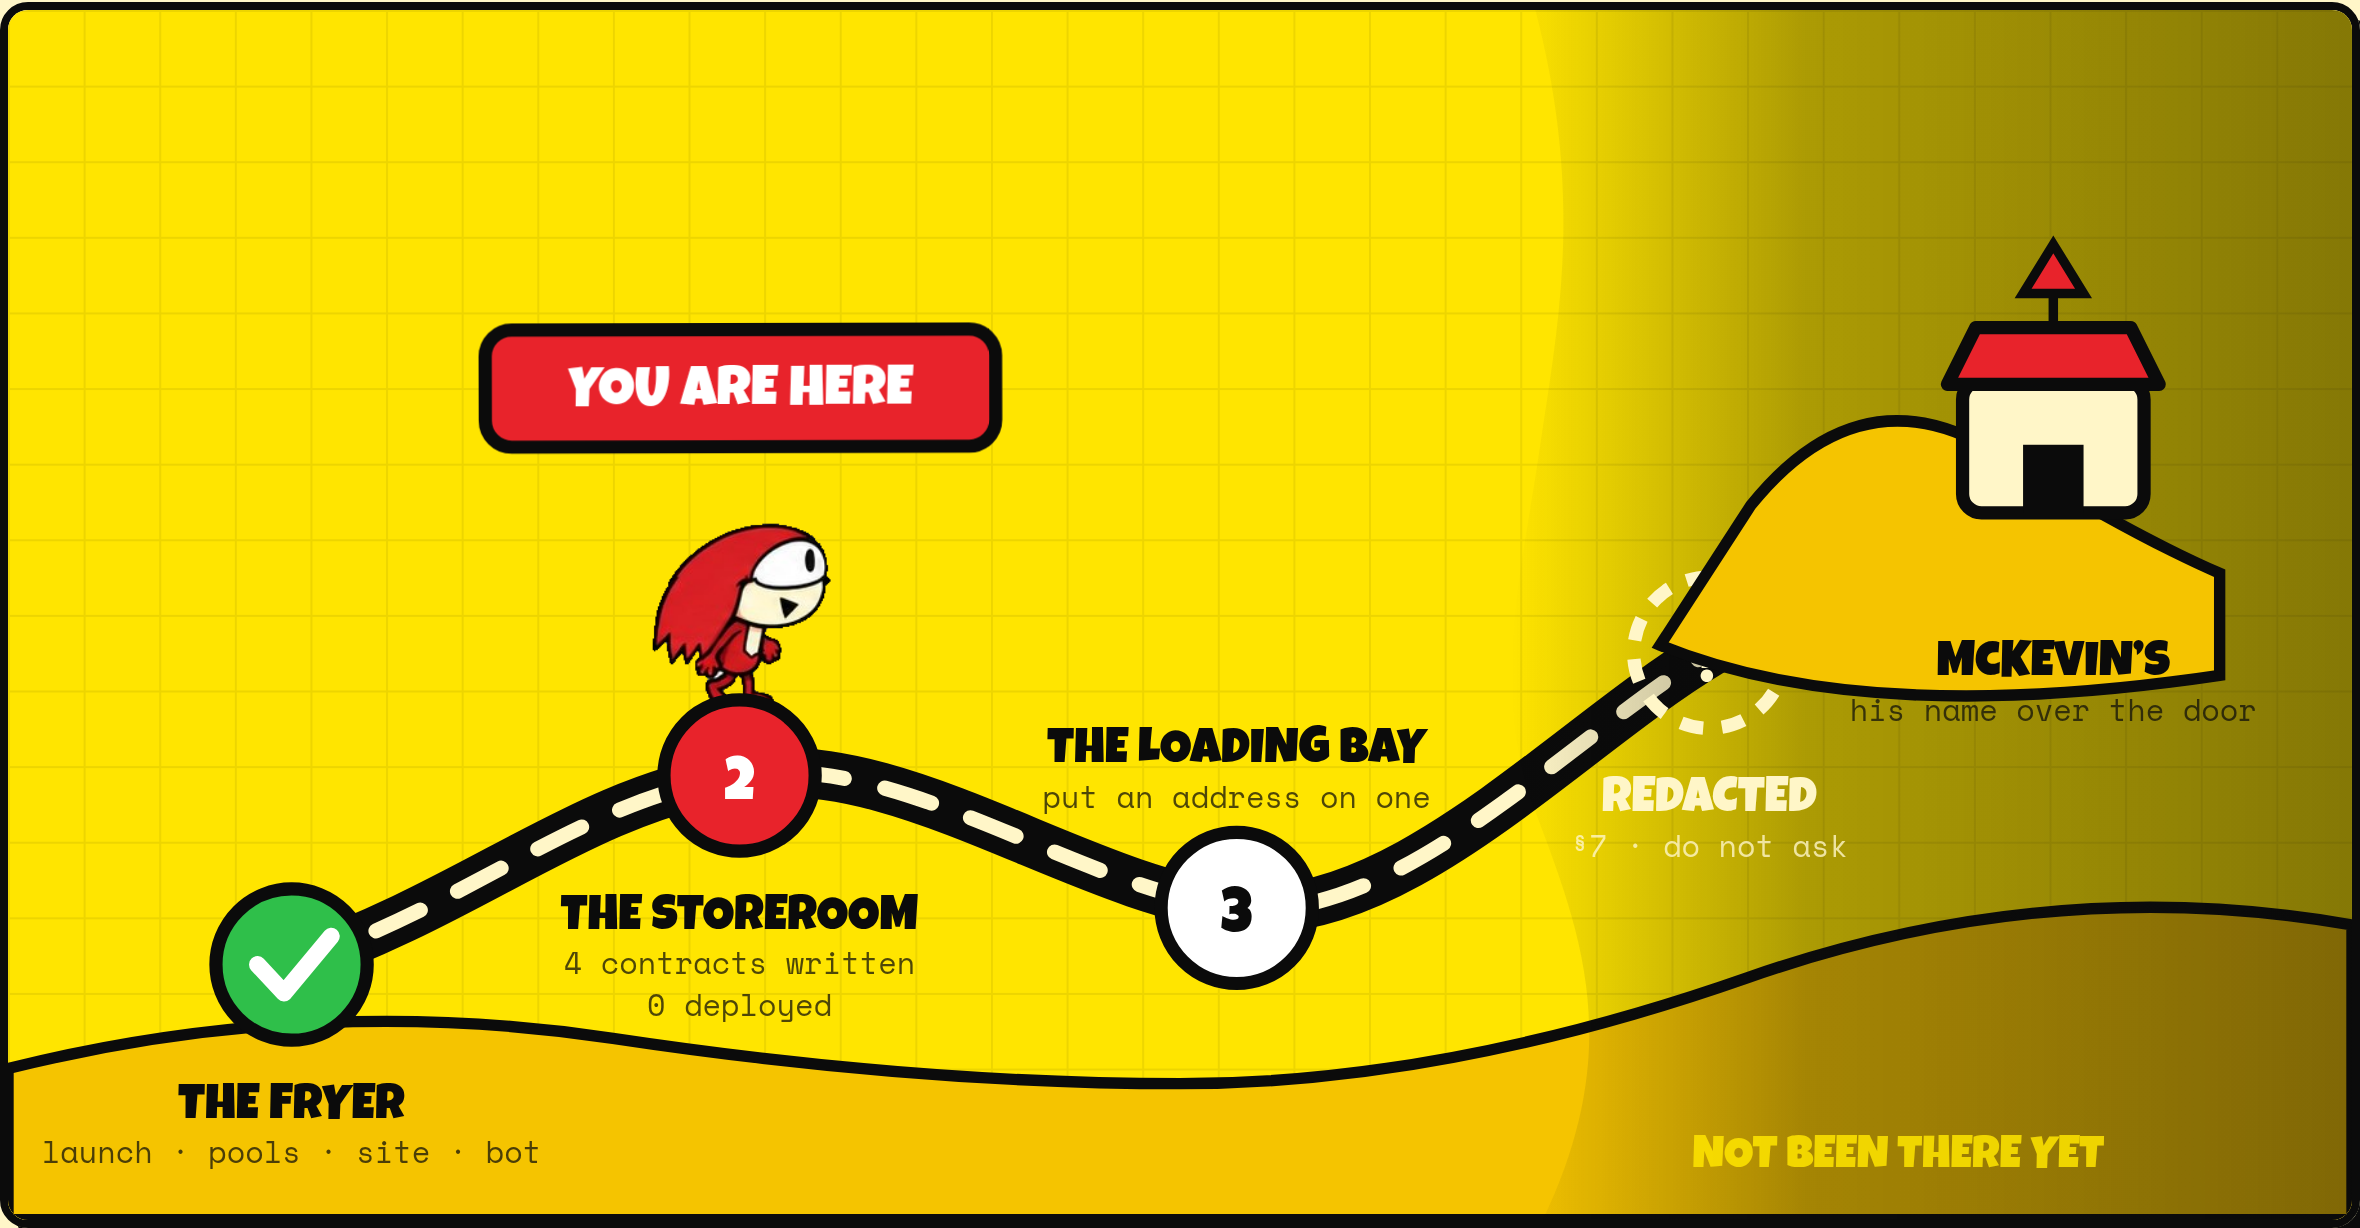
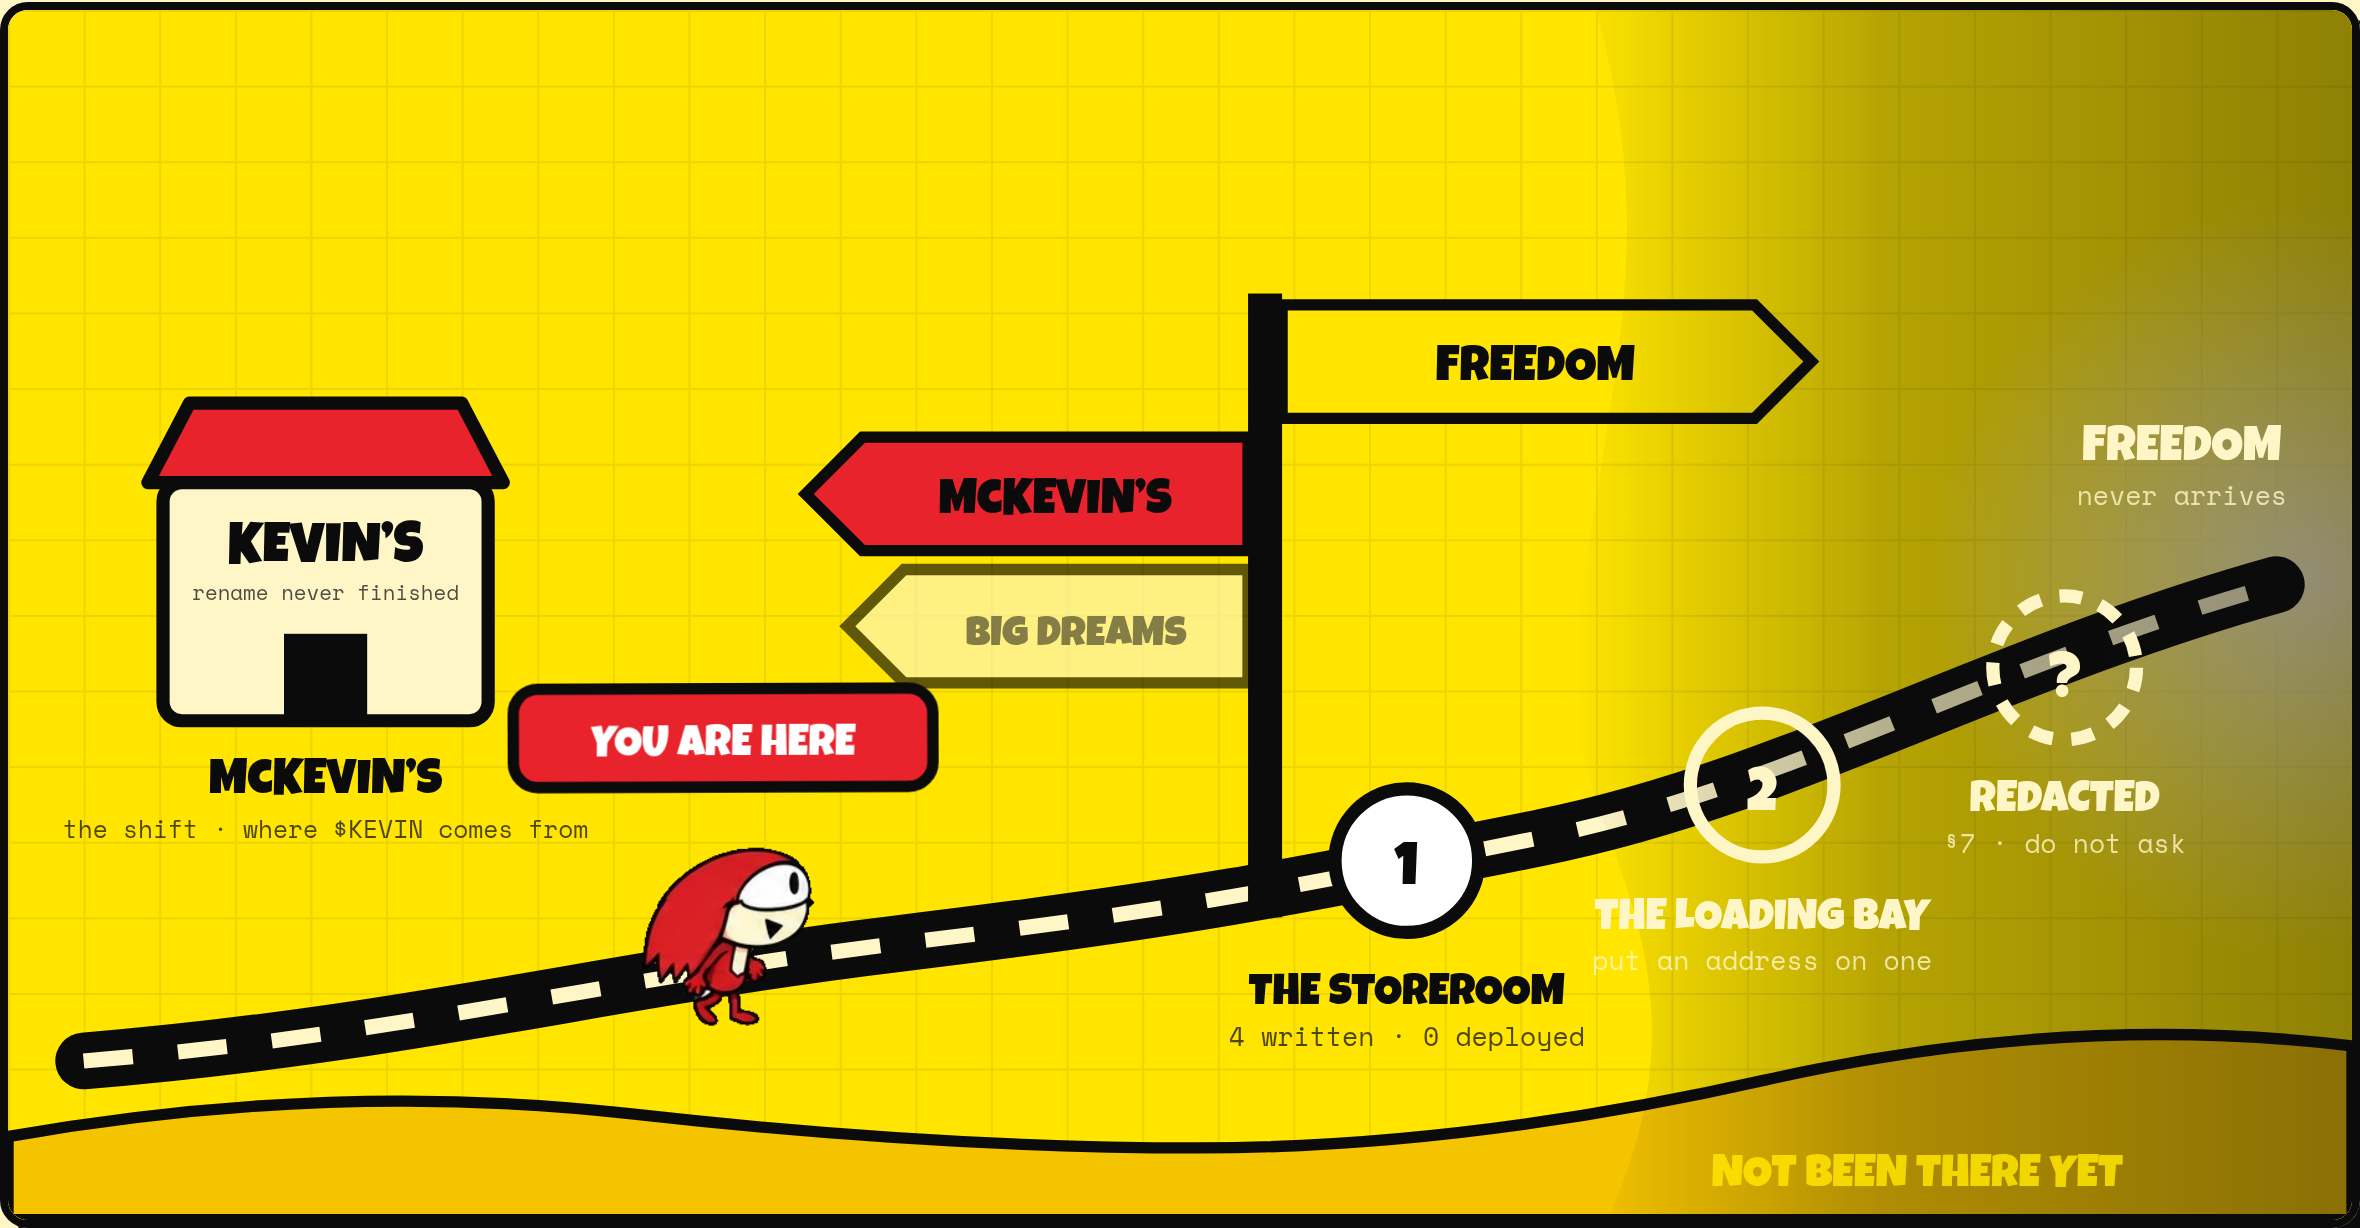
docs: fix the map — McKevin's is the job, not the destination
The first map had Kevin walking towards McKevin's. McKevin's is where
he works. The gym labels it `kind: 'work'` — "Clock in. This is where
$KEVIN comes from" — and the fascia gag is that the rename was never
finished, so the big type still reads KEVIN'S. He was walking towards
his own fryer.

docs/LORE.md:86 already had the real map and it was not read carefully
enough the first time:

  "The sign on the road out of town. BIG DREAMS -> MCKEVIN'S ->
   FREEDOM. Three arrows, one direction. He is following it in order."

So the map is now that sign, drawn. McKevin's is the middle arrow, not
the end of the road, and the destination is freedom. The signpost is
the hero of the picture: BIG DREAMS pointing back, McKEVIN'S pointing
back at the building he just left, FREEDOM pointing the way he is
walking.

The road runs off the right-hand edge and arrives nowhere, because
LORE.md's arc section is explicit that it must: "The arc never
completes. SLEEP stays unticked forever. The day he sleeps, the story
is over." The destination card is rewritten to say that instead of
promising a restaurant, and its ticked box is now unticked.

Also fixes a real rendering bug behind several overflowing labels: an
SVG font-size presentation attribute loses to a class rule, so all 14
of them were being ignored and every label rendered at the class
default. They are inline styles now.

Claude-Session: https://claude.ai/code/session_01BHeQAKezCAZcbwZ5Gnqafr

diff --git a/docs/index.html b/docs/index.html
@@ -89,6 +89,7 @@
   .pin--now .map__no { fill: #fff; }
   .map__you   { font-family: var(--display); font-size: 30px; fill: #fff; }
   .map__fog   { font-family: var(--display); font-size: 24px; fill: #ffe500; opacity: .85; }
+  .map__sign  { font-family: var(--display); font-size: 26px; fill: var(--ink); }
   .map__label--fog, .map__sub--fog, .map__no--fog { fill: var(--cream); }
   .map__sub--fog { opacity: .8; }
   .map__flag { animation: bob 3.6s ease-in-out infinite; }
@@ -500,16 +501,20 @@
       </p>
     </div>
 
-    <!-- The map. Fog is not decoration: it covers exactly the stops that have
-         not happened, so progress cannot be faked by redrawing the picture.
-         The pin is where the project actually is. -->
+    <!-- The map. It is the sign from the lore, drawn: BIG DREAMS -> McKEVIN'S
+         -> FREEDOM, three arrows, one direction, and he is following it in
+         order. McKevin's is where he WORKS — the fryer, where $KEVIN comes
+         from — so it is the middle of the road, not the end of it.
+         The road runs off the right-hand edge on purpose. The arc never
+         completes; SLEEP stays unticked forever. -->
     <figure class="map">
       <div class="map__scroll">
         <svg viewBox="0 0 1240 640" role="img" aria-labelledby="map-title map-desc" class="map__svg">
-          <title id="map-title">The road to McKevin's</title>
-          <desc id="map-desc">A map with five stops. The fryer is complete. The storeroom is where the
-            project is now: four contracts written, none deployed. The loading bay, a fogged stop, and
-            McKevin's are ahead and not yet reached.</desc>
+          <title id="map-title">The road out of town: BIG DREAMS, McKEVIN&#8217;S, FREEDOM</title>
+          <desc id="map-desc">A road running left to right. Big dreams is behind. McKevin&#8217;s, where Kevin
+            works, is where he is now. Ahead lie the storeroom (four contracts written, none deployed),
+            the loading bay, a redacted stop, and finally freedom, which the road never quite reaches —
+            it runs off the edge of the map.</desc>
 
           <defs>
             <pattern id="mapGrid" width="40" height="40" patternUnits="userSpaceOnUse">
@@ -517,91 +522,104 @@
             </pattern>
             <linearGradient id="fog" x1="0" x2="1">
               <stop offset="0" stop-color="#0b0b0b" stop-opacity="0"/>
-              <stop offset=".35" stop-color="#0b0b0b" stop-opacity=".34"/>
-              <stop offset="1" stop-color="#0b0b0b" stop-opacity=".5"/>
+              <stop offset=".4" stop-color="#0b0b0b" stop-opacity=".3"/>
+              <stop offset="1" stop-color="#0b0b0b" stop-opacity=".46"/>
             </linearGradient>
+            <radialGradient id="horizon" cx=".5" cy=".5">
+              <stop offset="0" stop-color="#fff6c8"/>
+              <stop offset="1" stop-color="#fff6c8" stop-opacity="0"/>
+            </radialGradient>
           </defs>
 
           <rect width="1240" height="640" fill="#ffe500"/>
           <rect width="1240" height="640" fill="url(#mapGrid)"/>
+          <circle cx="1215" cy="300" r="200" fill="url(#horizon)"/>
 
-          <!-- ground -->
-          <path d="M0 560q160-40 320-16t300 24 300-56 320-28v156H0Z" fill="#f5c400" stroke="#0b0b0b" stroke-width="6"/>
+          <path d="M0 596q170-30 330-12t300 18 300-36 310-18v92H0Z" fill="#f5c400"
+                stroke="#0b0b0b" stroke-width="6"/>
 
-          <!-- the road -->
-          <path d="M150 505C250 470 300 420 385 405s180 60 265 70 175-90 250-135 75-28 118-12"
-                fill="none" stroke="#0b0b0b" stroke-width="26" stroke-linecap="round"/>
-          <path d="M150 505C250 470 300 420 385 405s180 60 265 70 175-90 250-135 75-28 118-12"
-                fill="none" stroke="#fff6c8" stroke-width="8" stroke-linecap="round"
-                stroke-dasharray="26 22"/>
+          <!-- the road. It leaves the frame; it does not arrive anywhere. -->
+          <path d="M40 556C210 542 320 512 470 494s210 -30 340 -56 240-92 390-134"
+                fill="none" stroke="#0b0b0b" stroke-width="30" stroke-linecap="round"/>
+          <path d="M40 556C210 542 320 512 470 494s210 -30 340 -56 240-92 390-134"
+                fill="none" stroke="#fff6c8" stroke-width="8" stroke-dasharray="26 24"/>
 
-          <!-- 1 · the fryer, done -->
-          <g class="pin pin--done">
-            <circle cx="150" cy="505" r="40" fill="#2fbf4a" stroke="#0b0b0b" stroke-width="7"/>
-            <path d="M132 505l14 15 25-30" fill="none" stroke="#fff" stroke-width="9"
-                  stroke-linecap="round" stroke-linejoin="round"/>
-            <text x="150" y="586" text-anchor="middle" class="map__label">THE FRYER</text>
-            <text x="150" y="610" text-anchor="middle" class="map__sub">launch · pools · site · bot</text>
-          </g>
-
-          <!-- 2 · the storeroom, you are here -->
-          <g class="pin pin--now">
-            <image href="../assets/sprites/walk/right-00.png" x="330" y="252" width="108" height="120"/>
-            <g class="map__flag">
-              <rect x="252" y="176" width="270" height="62" rx="14" fill="#e8232b" stroke="#0b0b0b" stroke-width="7"/>
-              <text x="387" y="216" text-anchor="middle" class="map__you">YOU ARE HERE</text>
-            </g>
-            <circle cx="387" cy="405" r="40" fill="#e8232b" stroke="#0b0b0b" stroke-width="7"/>
-            <text x="387" y="418" text-anchor="middle" class="map__no">2</text>
-            <text x="387" y="486" text-anchor="middle" class="map__label">THE STOREROOM</text>
-            <text x="387" y="510" text-anchor="middle" class="map__sub">4 contracts written</text>
-            <text x="387" y="532" text-anchor="middle" class="map__sub">0 deployed</text>
-          </g>
-
-          <!-- 3 · the loading bay, the next one. Deliberately OUTSIDE the fog:
-               it is the step actually being walked towards. -->
-          <g class="pin pin--todo">
-            <text x="650" y="398" text-anchor="middle" class="map__label">THE LOADING BAY</text>
-            <text x="650" y="422" text-anchor="middle" class="map__sub">put an address on one</text>
-            <circle cx="650" cy="475" r="40" fill="#fff" stroke="#0b0b0b" stroke-width="7"/>
-            <text x="650" y="488" text-anchor="middle" class="map__no">3</text>
-          </g>
-
-          <!-- the fog. Drawn HERE, not last: everything above it is reached or
-               being walked to, everything after it is not. -->
-          <path d="M812 0h428v640H812c44-92 20-152-4-216s-8-122 2-190 24-134-2-234Z" fill="url(#fog)"/>
-          <text x="1000" y="612" text-anchor="middle" class="map__fog">NOT BEEN THERE YET</text>
-
-          <!-- 4 · redacted, inside the fog where it belongs -->
-          <g class="pin pin--fog">
-            <circle cx="900" cy="340" r="40" fill="none" stroke="#fff6c8" stroke-width="7"
-                    stroke-dasharray="12 10"/>
-            <text x="900" y="354" text-anchor="middle" class="map__no map__no--fog">?</text>
-            <text x="900" y="424" text-anchor="middle" class="map__label map__label--fog">REDACTED</text>
-            <text x="900" y="448" text-anchor="middle" class="map__sub map__sub--fog">§7 · do not ask</text>
-          </g>
-
-          <!-- 5 · McKevin's, drawn ON TOP of the fog on purpose. The way there
-               is unknown; the destination has never been in any doubt. -->
-          <g class="pin pin--end" transform="translate(-58 0)">
-            <path d="M980 262q58-72 130-28t118 64v54q-188 28-296-16Z" fill="#f5c400"
-                  stroke="#0b0b0b" stroke-width="6"/>
-            <path d="M1140 196V150h-16l16-26 16 26h-16" fill="#e8232b" stroke="#0b0b0b" stroke-width="5"/>
-            <rect x="1092" y="196" width="96" height="70" rx="10" fill="#fff6c8" stroke="#0b0b0b" stroke-width="7"/>
-            <path d="M1084 198h112l-15-30h-82Z" fill="#e8232b" stroke="#0b0b0b" stroke-width="7"
+          <!-- WHERE HE WORKS. The fascia gag is from the lore: the rename is
+               half-done, so the big type still says KEVIN'S. -->
+          <g>
+            <path d="M74 250h188l-22-42H96Z" fill="#e8232b" stroke="#0b0b0b" stroke-width="7"
                   stroke-linejoin="round"/>
-            <rect x="1124" y="230" width="32" height="36" fill="#0b0b0b"/>
-            <text x="1140" y="352" text-anchor="middle" class="map__label">McKEVIN&#8217;S</text>
-            <text x="1140" y="376" text-anchor="middle" class="map__sub">his name over the door</text>
+            <rect x="82" y="250" width="172" height="126" rx="10" fill="#fff6c8"
+                  stroke="#0b0b0b" stroke-width="7"/>
+            <text x="168" y="292" text-anchor="middle" class="map__label" style="font-size:30px">KEVIN&#8217;S</text>
+            <text x="168" y="312" text-anchor="middle" class="map__sub" style="font-size:11px">rename never finished</text>
+            <rect x="146" y="330" width="44" height="46" fill="#0b0b0b"/>
+            <text x="168" y="414" text-anchor="middle" class="map__label" style="font-size:26px">McKEVIN&#8217;S</text>
+            <text x="168" y="438" text-anchor="middle" class="map__sub" style="font-size:13px">the shift · where $KEVIN comes from</text>
           </g>
+
+          <!-- him, walking, with the flag clear above his head -->
+          <g class="pin pin--now">
+            <g class="map__flag">
+              <rect x="266" y="366" width="222" height="52" rx="13" fill="#e8232b"
+                    stroke="#0b0b0b" stroke-width="6"/>
+              <text x="377" y="401" text-anchor="middle" class="map__you" style="font-size:23px">YOU ARE HERE</text>
+            </g>
+            <image href="../assets/sprites/walk/right-00.png" x="325" y="424" width="104" height="116"/>
+          </g>
+
+          <!-- THE SIGN, planted beside the road. Three arrows, one direction. -->
+          <g>
+            <rect x="656" y="150" width="18" height="330" fill="#0b0b0b"/>
+            <path d="M674 156h250l30 30-30 30H674Z" fill="#ffe500" stroke="#0b0b0b" stroke-width="6"/>
+            <text x="808" y="196" text-anchor="middle" class="map__sign">FREEDOM</text>
+            <path d="M656 226H452l-30 30 30 30h204Z" fill="#e8232b" stroke="#0b0b0b" stroke-width="6"/>
+            <text x="554" y="266" text-anchor="middle" class="map__sign" fill="#fff">McKEVIN&#8217;S</text>
+            <path d="M656 296H474l-30 30 30 30h182Z" fill="#fff6c8" stroke="#0b0b0b" stroke-width="6"
+                  opacity=".65"/>
+            <text x="565" y="336" text-anchor="middle" class="map__sign" opacity=".5" style="font-size:22px">BIG DREAMS</text>
+          </g>
+
+          <!-- next real step, still in the clear -->
+          <g class="pin pin--todo">
+            <circle cx="740" cy="450" r="38" fill="#fff" stroke="#0b0b0b" stroke-width="7"/>
+            <text x="740" y="463" text-anchor="middle" class="map__no">1</text>
+            <text x="740" y="526" text-anchor="middle" class="map__label" style="font-size:23px">THE STOREROOM</text>
+            <text x="740" y="548" text-anchor="middle" class="map__sub" style="font-size:14px">4 written · 0 deployed</text>
+          </g>
+
+          <!-- the fog: everything past here has not happened -->
+          <path d="M846 0h394v640H846c42-92 20-152-4-216s-8-122 2-190 24-134-4-234Z" fill="url(#fog)"/>
+
+          <g class="pin pin--fog">
+            <circle cx="928" cy="410" r="38" fill="none" stroke="#fff6c8" stroke-width="7"/>
+            <text x="928" y="424" text-anchor="middle" class="map__no map__no--fog">2</text>
+            <text x="928" y="486" text-anchor="middle" class="map__label map__label--fog" style="font-size:23px">THE LOADING BAY</text>
+            <text x="928" y="508" text-anchor="middle" class="map__sub map__sub--fog" style="font-size:14px">put an address on one</text>
+          </g>
+
+          <g class="pin pin--fog">
+            <circle cx="1088" cy="348" r="38" fill="none" stroke="#fff6c8" stroke-width="7"
+                    stroke-dasharray="12 10"/>
+            <text x="1088" y="362" text-anchor="middle" class="map__no map__no--fog">?</text>
+            <text x="1088" y="424" text-anchor="middle" class="map__label map__label--fog" style="font-size:23px">REDACTED</text>
+            <text x="1088" y="446" text-anchor="middle" class="map__sub map__sub--fog" style="font-size:14px">§7 · do not ask</text>
+          </g>
+
+          <text x="1150" y="238" text-anchor="middle" class="map__label map__label--fog" style="font-size:26px">FREEDOM</text>
+          <text x="1150" y="262" text-anchor="middle" class="map__sub map__sub--fog" style="font-size:14px">never arrives</text>
+          <text x="1010" y="622" text-anchor="middle" class="map__fog">NOT BEEN THERE YET</text>
 
         </svg>
       </div>
       <figcaption>
-        The fog covers the stops that have not happened. It only lifts when
-        something actually ships, which is why the picture cannot be used to
-        claim progress that has not been made. The pin is where the project is
-        today, not where it is going.
+        The sign is the one from the lore — <b>BIG DREAMS → McKEVIN&#8217;S → FREEDOM</b>,
+        three arrows, one direction, and he is following it in order. McKevin&#8217;s
+        is not the destination; it is the job. The fog covers the stops that
+        have not happened and only lifts when something ships, so this picture
+        cannot be redrawn to claim progress nobody made. And the road runs off
+        the edge on purpose: the arc never completes, and
+        <b>☐ SLEEP stays unticked forever</b>. The day he sleeps, the story is over.
       </figcaption>
     </figure>
 
@@ -670,22 +688,23 @@
         <div class="stop__pin">★</div>
         <div class="card card--void">
           <div class="stop__when">The destination</div>
-          <h3>McKevin's</h3>
+          <h3>Freedom</h3>
           <p>
-            This is the thing it is all pointed at, and it has never once
-            changed. Not a token. Not a chain. A fry station that he owns,
-            with his name over the door, where he decides when the shift ends.
+            <b>McKevin's is not the destination.</b> McKevin's is the job. It is
+            the fryer, the shift, the fascia where the rename was never
+            finished, and it is where $KEVIN comes from. He is not walking
+            towards it. He is walking out of it.
           </p>
           <p>
-            Big dreams → McKevin's → freedom. In that order. He has had it
-            written on a whiteboard since 2009 and he will not be talked out
-            of it.
+            The sign on the road out of town reads <b>BIG DREAMS →
+            McKEVIN'S → FREEDOM</b>. Three arrows, one direction, and he is
+            following it in order. He is on the middle arrow. He has been on
+            the middle arrow since 2009.
           </p>
           <p style="margin-bottom:0">
-            <b>☑ Sleep.</b> Finally. Later.
-          </p>
-          <p style="font-size:13px;opacity:.75;margin-bottom:0">
-            Legally: an extremely not-real restaurant.
+            <b>☐ Sleep.</b> Still unticked, and it stays that way. The day he
+            sleeps, the story is over — so the road runs off the edge of the
+            map rather than arriving anywhere.
           </p>
         </div>
       </div>
